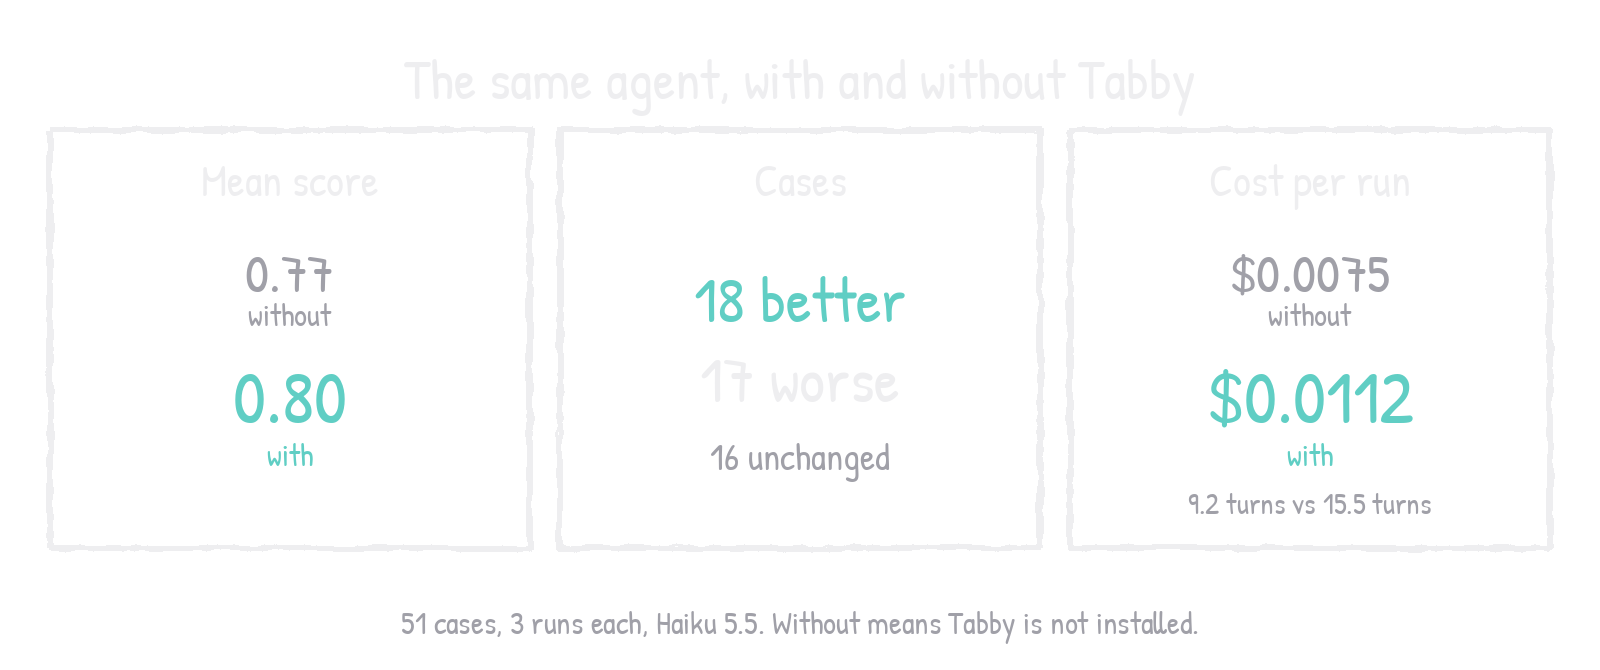
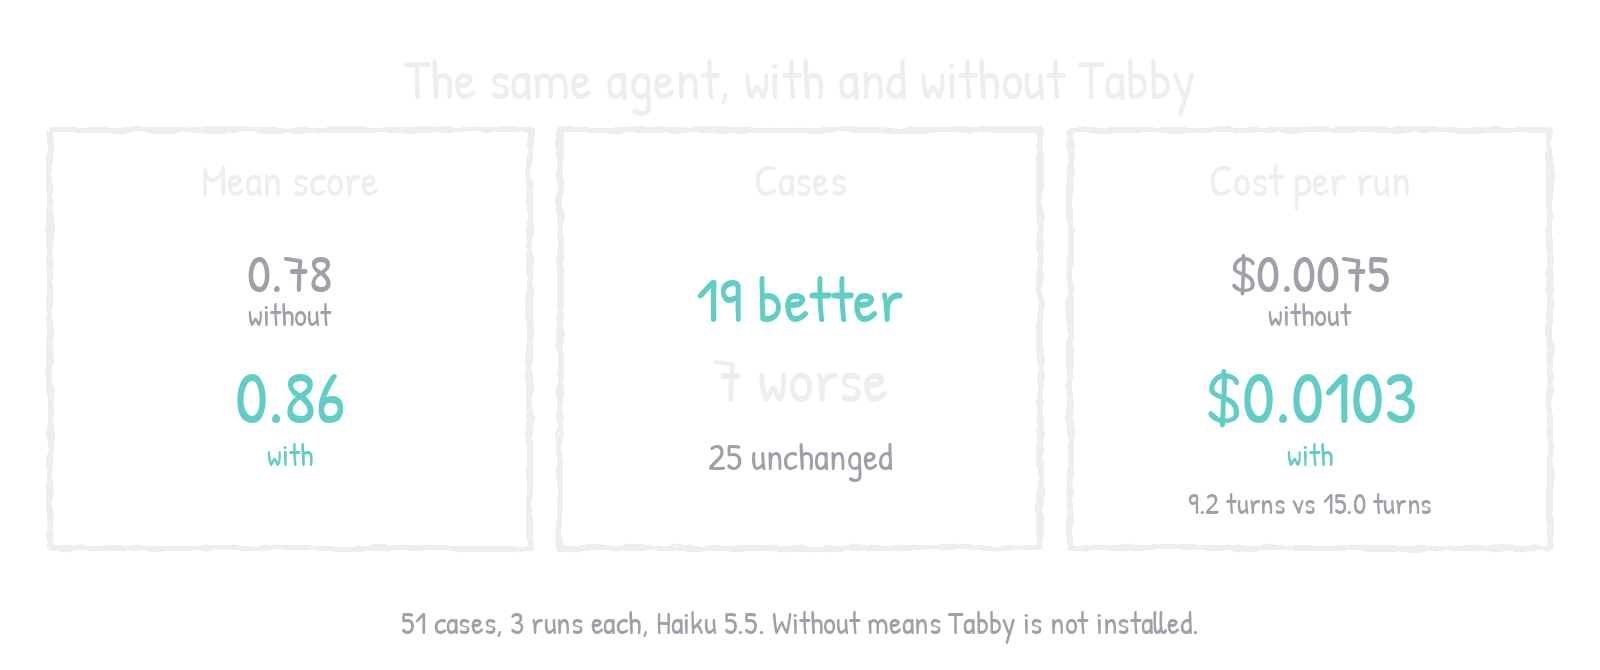
README numbers and scoreboard from the measurement on the new layout (commit 8a2b55f)
Claude-Session: https://claude.ai/code/session_01XpQkQydNZbX3KF3ViNqc1T

diff --git a/README.md b/README.md
@@ -118,13 +118,13 @@ Your expected growth shapes the code. Say a hot path may move to Rust and the ag
   <picture>
     <source media="(prefers-color-scheme: dark)" srcset="assets/scoreboard-dark.png">
     <source media="(prefers-color-scheme: light)" srcset="assets/scoreboard-light.png">
-    <img src="assets/scoreboard-light.png" width="800" alt="The same agent with and without Tabby over 51 cases: mean score 0.77 without and 0.80 with; 18 cases better, 17 worse, 16 unchanged; cost per run $0.0075 without and $0.0112 with, 9.2 turns against 15.5.">
+    <img src="assets/scoreboard-light.png" width="800" alt="The same agent with and without Tabby over 51 cases: mean score 0.78 without and 0.86 with; 19 cases better, 7 worse, 25 unchanged; cost per run $0.0075 without and $0.0103 with, 9.2 turns against 15.0.">
   </picture>
 </p>
 
-The same agent, the same 51 cases, 3 runs each, with and without Tabby, on Haiku 5.5 (`claude plugin eval`, regex and LLM-judge graders). Measured on commit `b92a610`. The router loaded in 97 of 114 runs.
+The same agent, the same 51 cases, 3 runs each, with and without Tabby, on Haiku 5.5 (`claude plugin eval`, regex and LLM-judge graders). Measured on commit `8a2b55f`. The router loaded in 99 of 114 runs.
 
-It helps most when the right move is not obvious: a payment-method refactor scored 0.97 with Tabby and 0.39 without; free-form date parsing (take a library, do not write a regex) 0.57 and 0.13; a security audit 0.98 and 0.75; numpydoc docstrings 1.00 and 0.67. It costs more per run than the bare agent, because it reads before it writes, and in 17 of the 51 cases it scored lower.
+It helps most when the right move is not obvious: joining an existing Rust-backed library and saving project memory scored 1.00 with Tabby and 0.11 without; free-form date parsing (take a library, do not write a regex) 0.76 and 0.13; a payment-method refactor 1.00 and 0.39; literal defaults and checked network calls 1.00 and 0.56; an optional dependency kept out of the base install 0.74 and 0.39. It costs about 38% more per run than the bare agent, because it reads before it writes, and in 7 of the 51 cases it scored lower (for example a streaming subprocess task, 0.71 against 1.00).
 
 **Limits:** one model, three runs, one judge, no shell in the eval sandbox. The cases are in [`tabby/evals/`](tabby/evals/). Tabby has not been run in GitHub Copilot.
 
